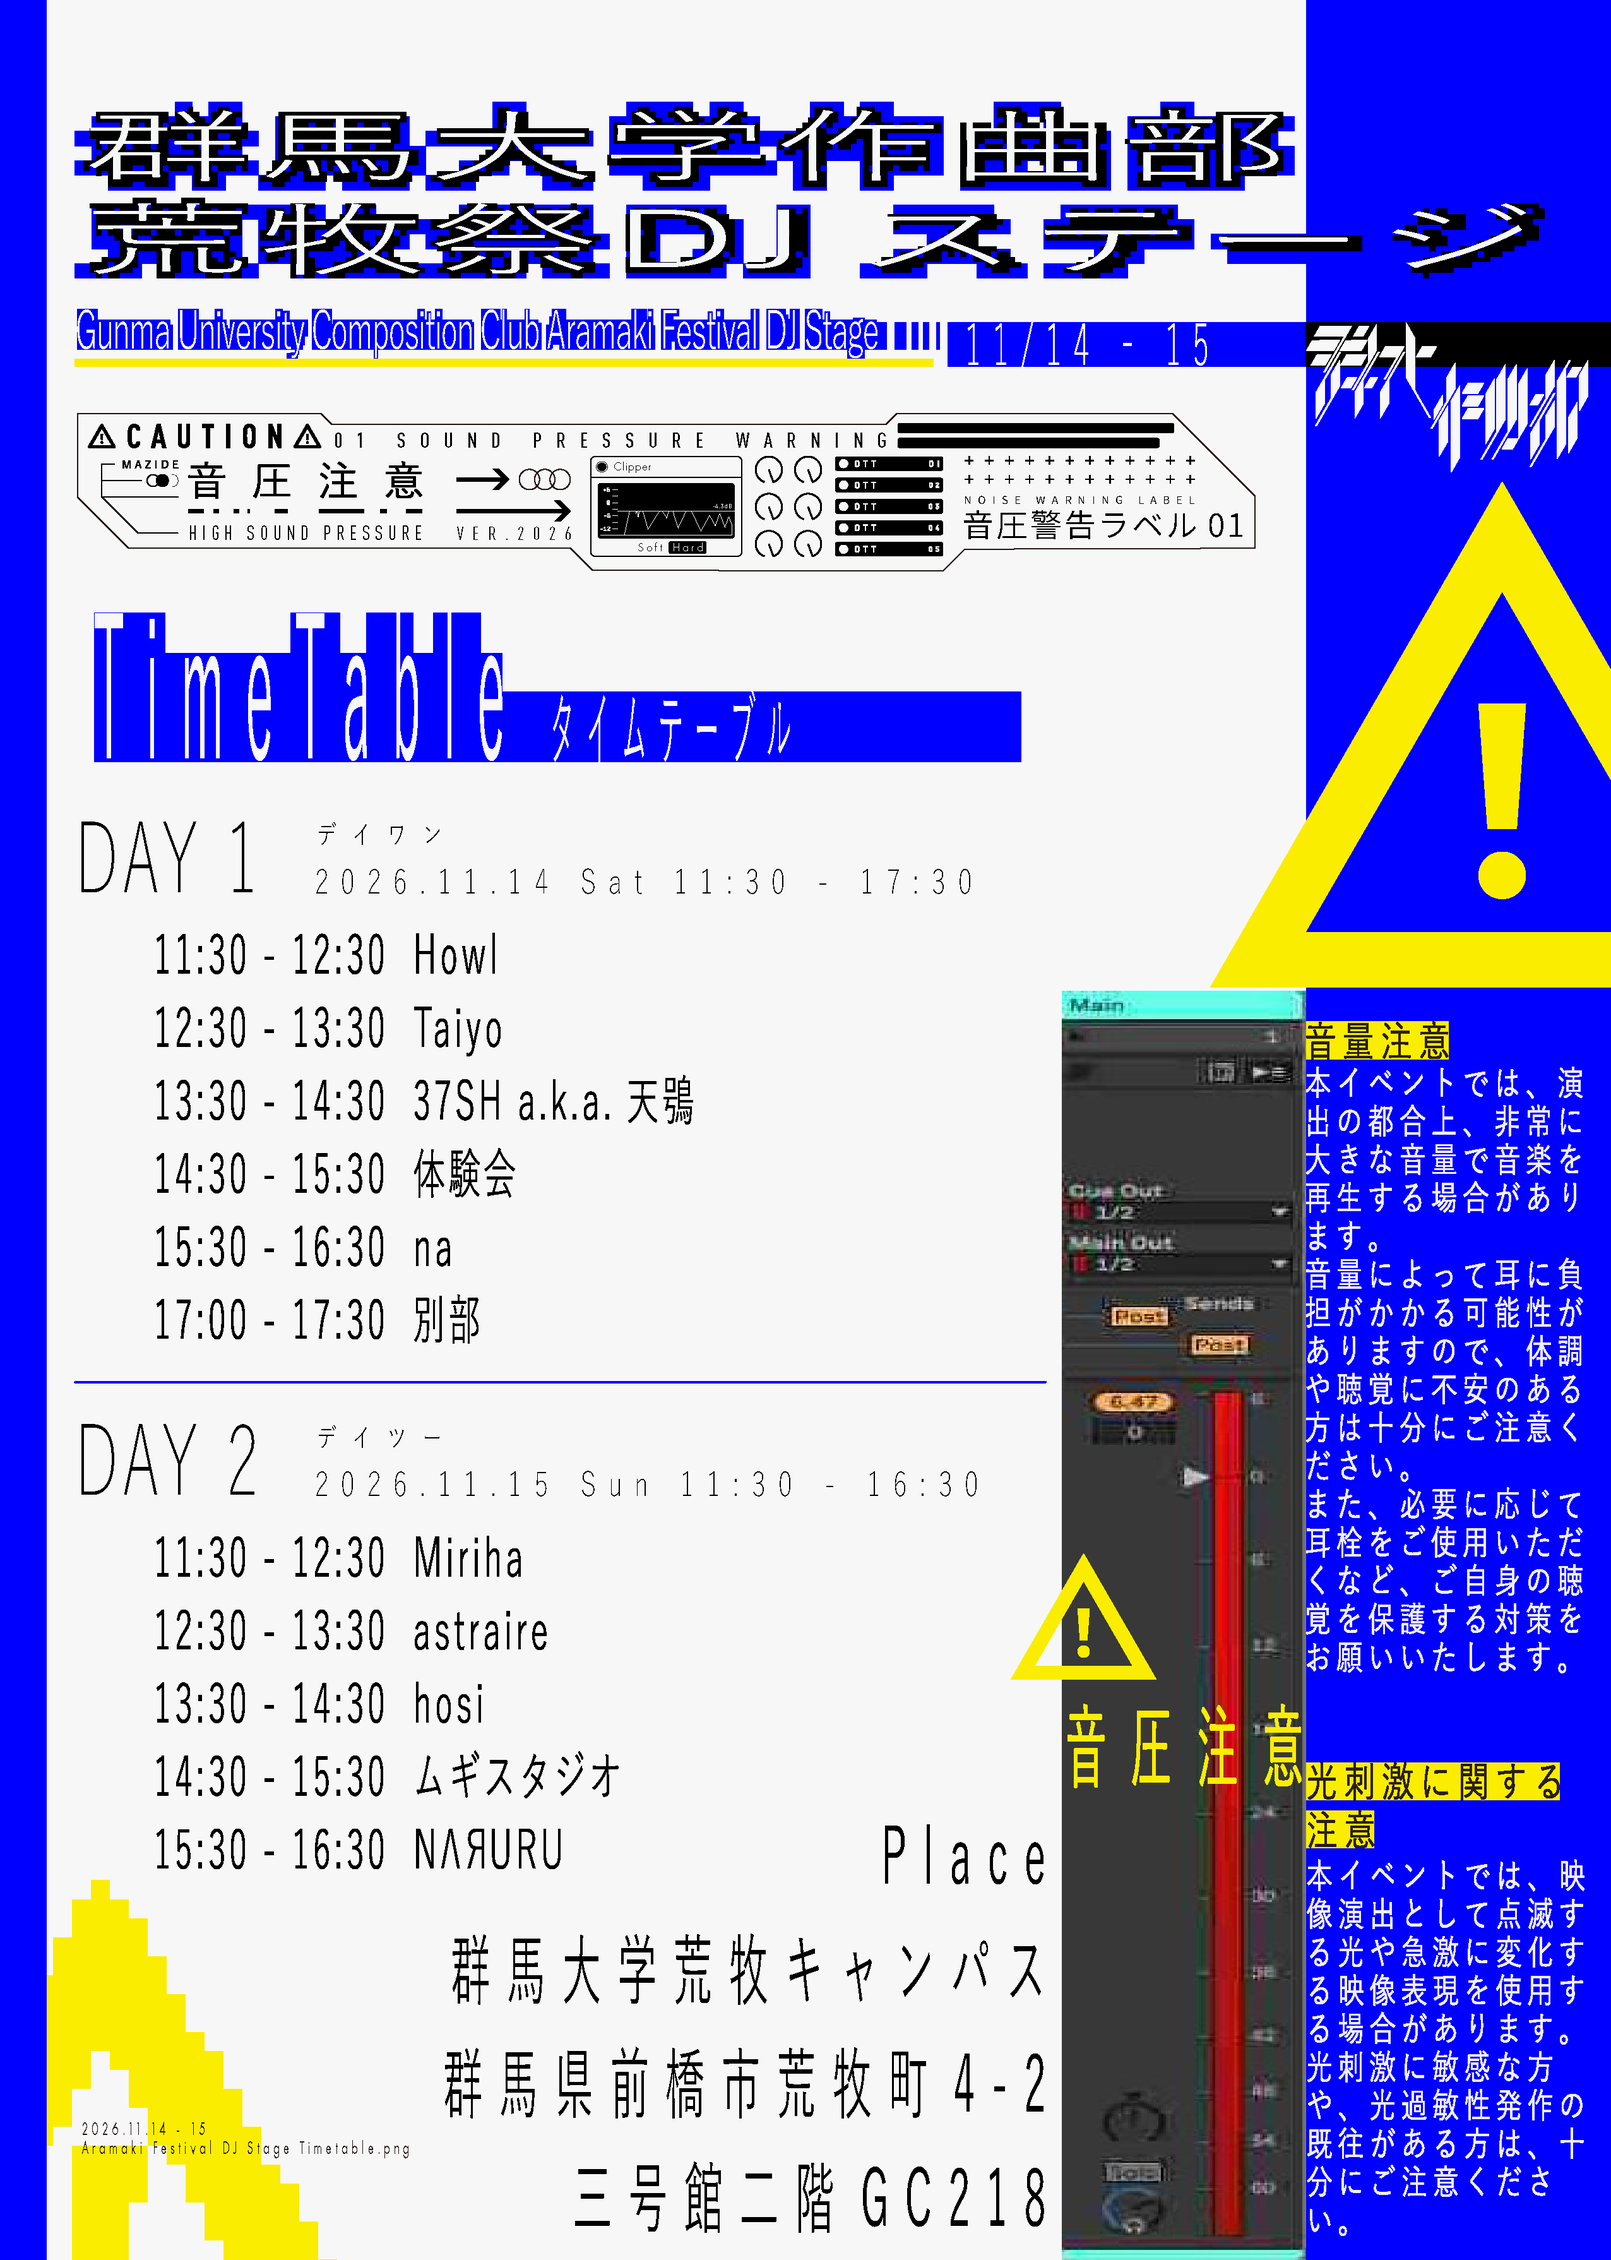
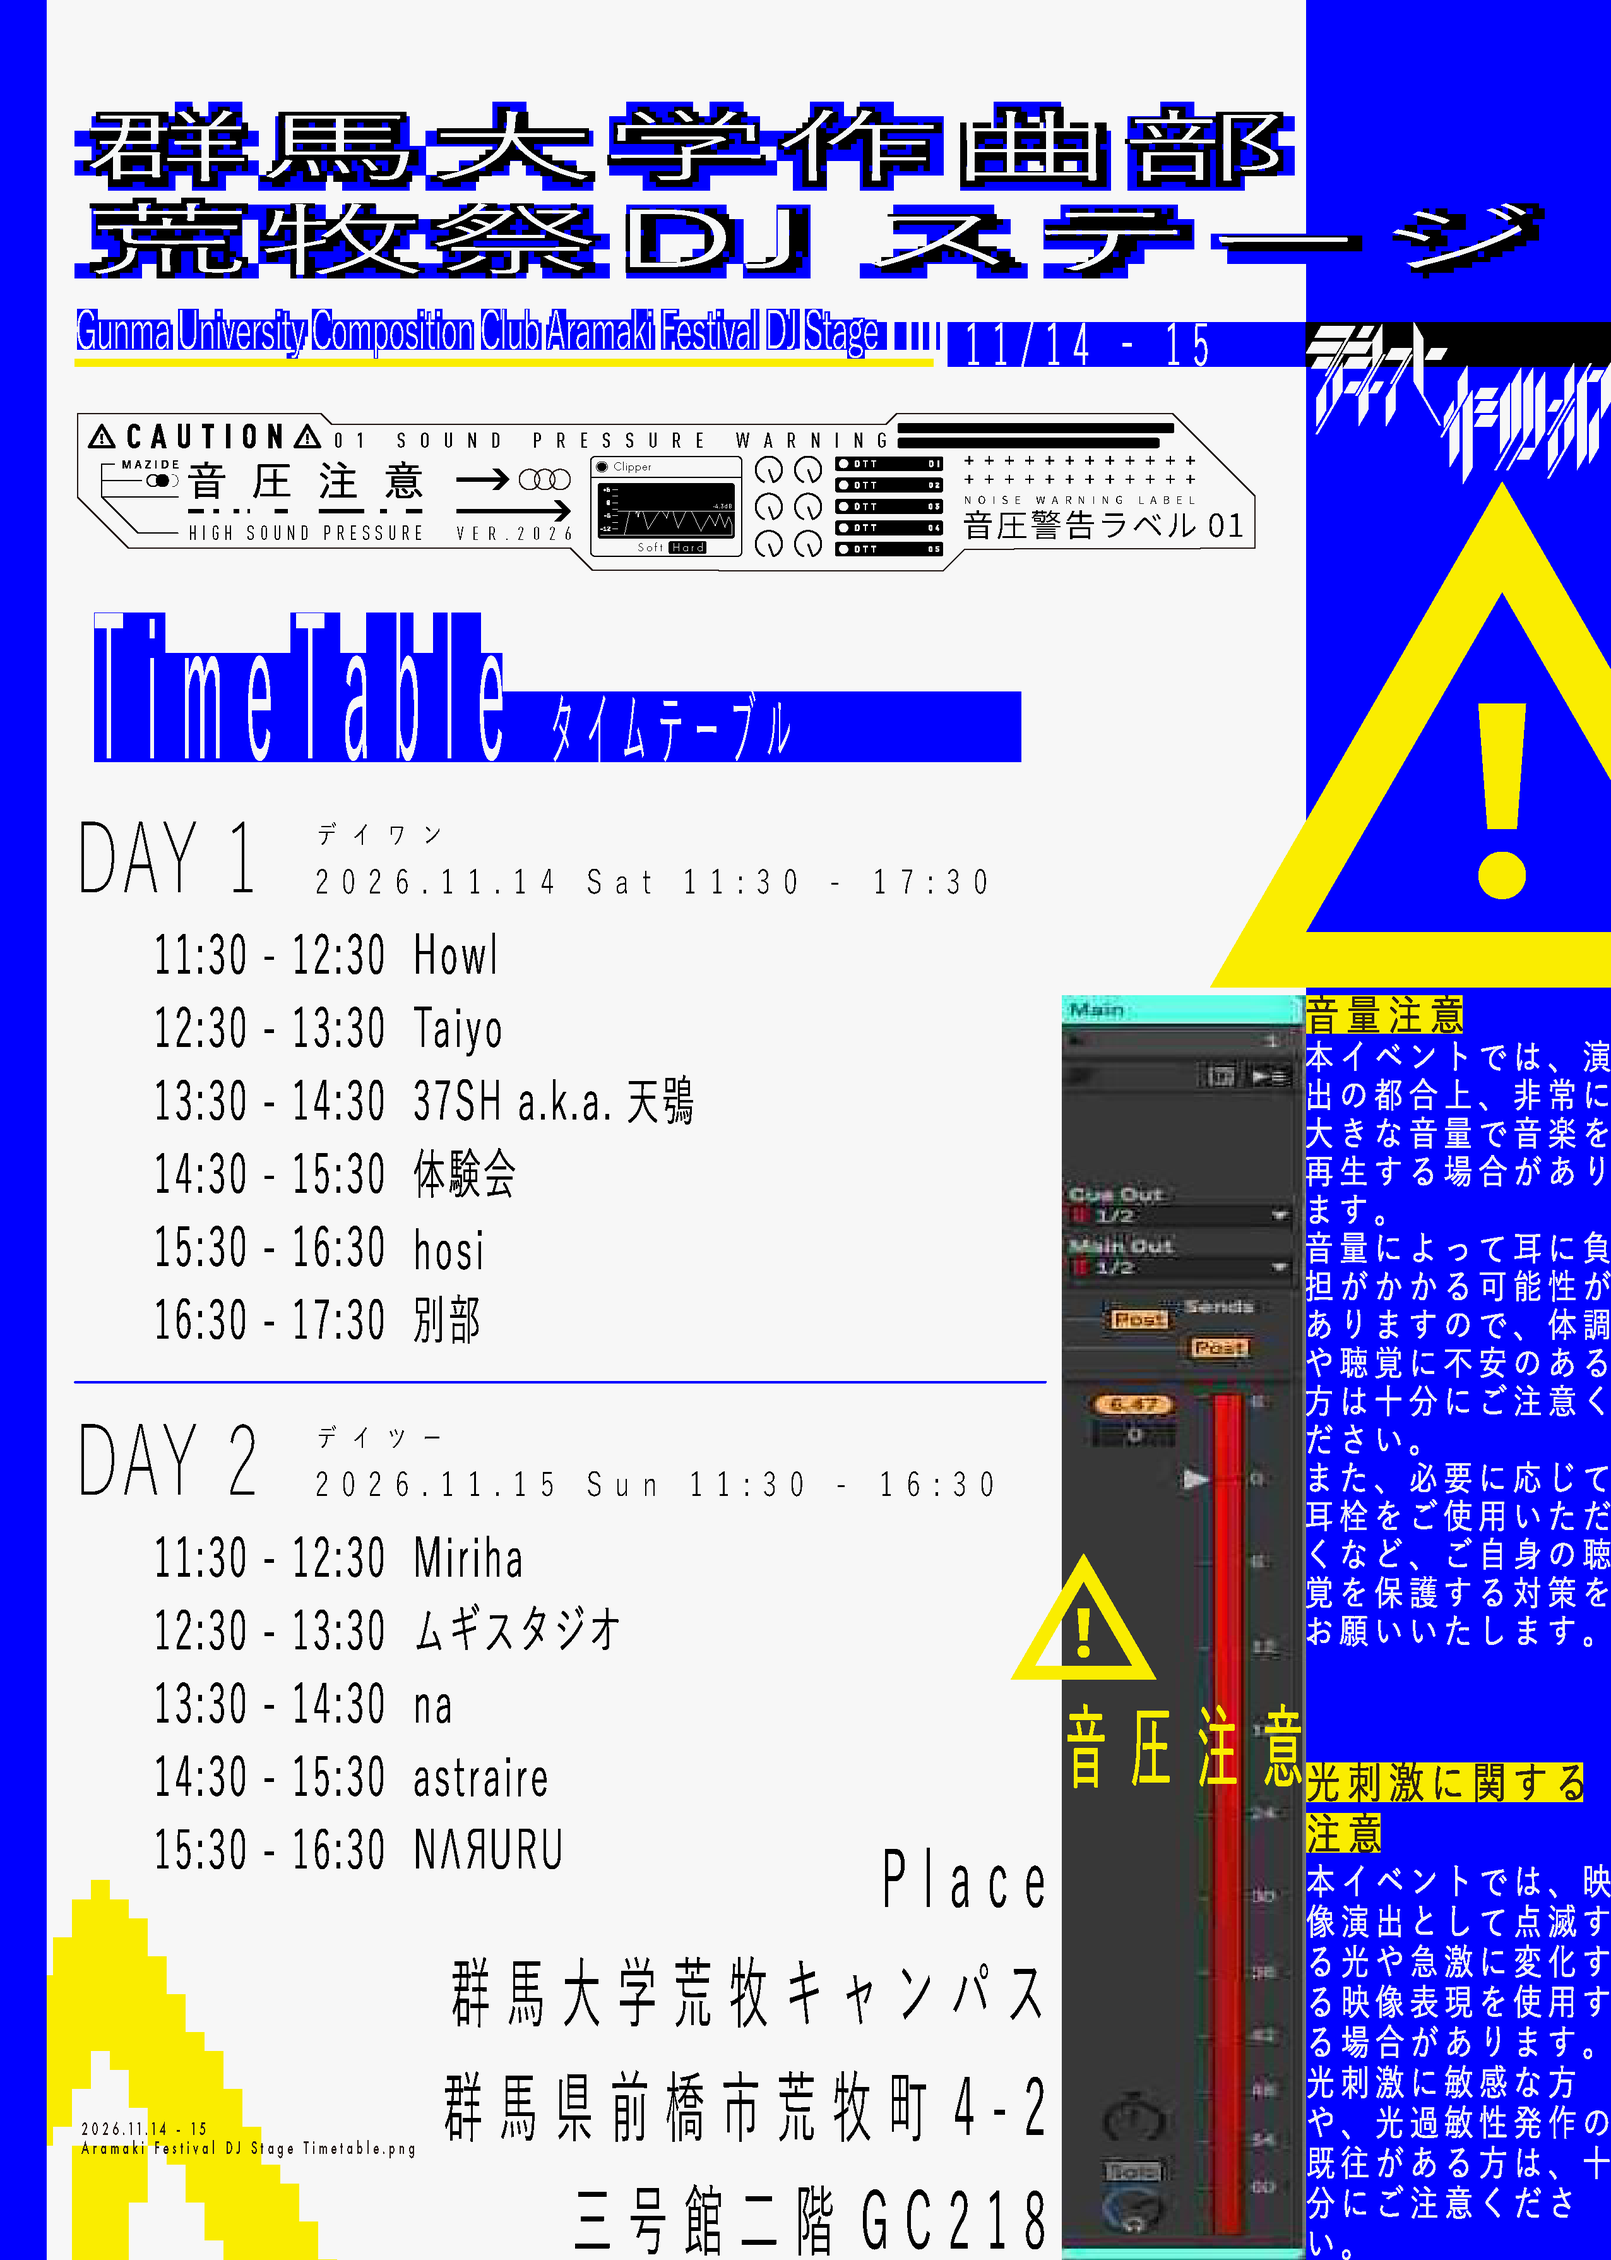
荒牧祭DJステージのポスターとタイムテーブルを最新版に差し替え
DAY1: hosi 15:30-16:30、別部 16:30-17:30
DAY2: ムギスタジオ 12:30、na 13:30、astraire 14:30

diff --git a/src/data/aramaki2026.ts b/src/data/aramaki2026.ts
@@ -66,8 +66,8 @@ export const aramaki2026 = {
           { start: "12:30", end: "13:30", name: "Taiyo" },
           { start: "13:30", end: "14:30", name: "37SH a.k.a. 天鴞" },
           { start: "14:30", end: "15:30", name: "体験会" },
-          { start: "15:30", end: "16:30", name: "na" },
-          { start: "17:00", end: "17:30", name: "別部" },
+          { start: "15:30", end: "16:30", name: "hosi" },
+          { start: "16:30", end: "17:30", name: "別部" },
         ],
       },
       {
@@ -78,9 +78,9 @@ export const aramaki2026 = {
         end: "16:30",
         slots: [
           { start: "11:30", end: "12:30", name: "Miriha" },
-          { start: "12:30", end: "13:30", name: "astraire" },
-          { start: "13:30", end: "14:30", name: "hosi" },
-          { start: "14:30", end: "15:30", name: "ムギスタジオ" },
+          { start: "12:30", end: "13:30", name: "ムギスタジオ" },
+          { start: "13:30", end: "14:30", name: "na" },
+          { start: "14:30", end: "15:30", name: "astraire" },
           { start: "15:30", end: "16:30", name: "NΛЯURU" },
         ],
       },
